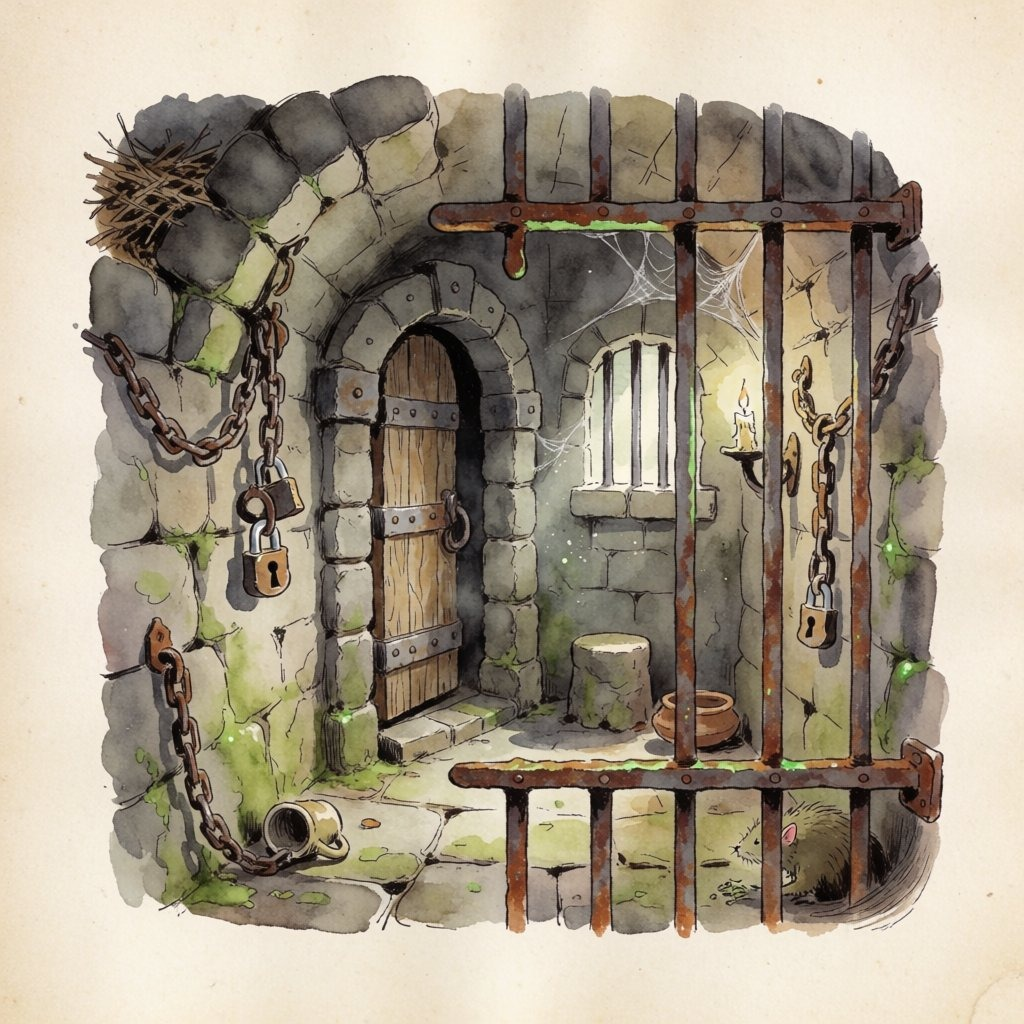
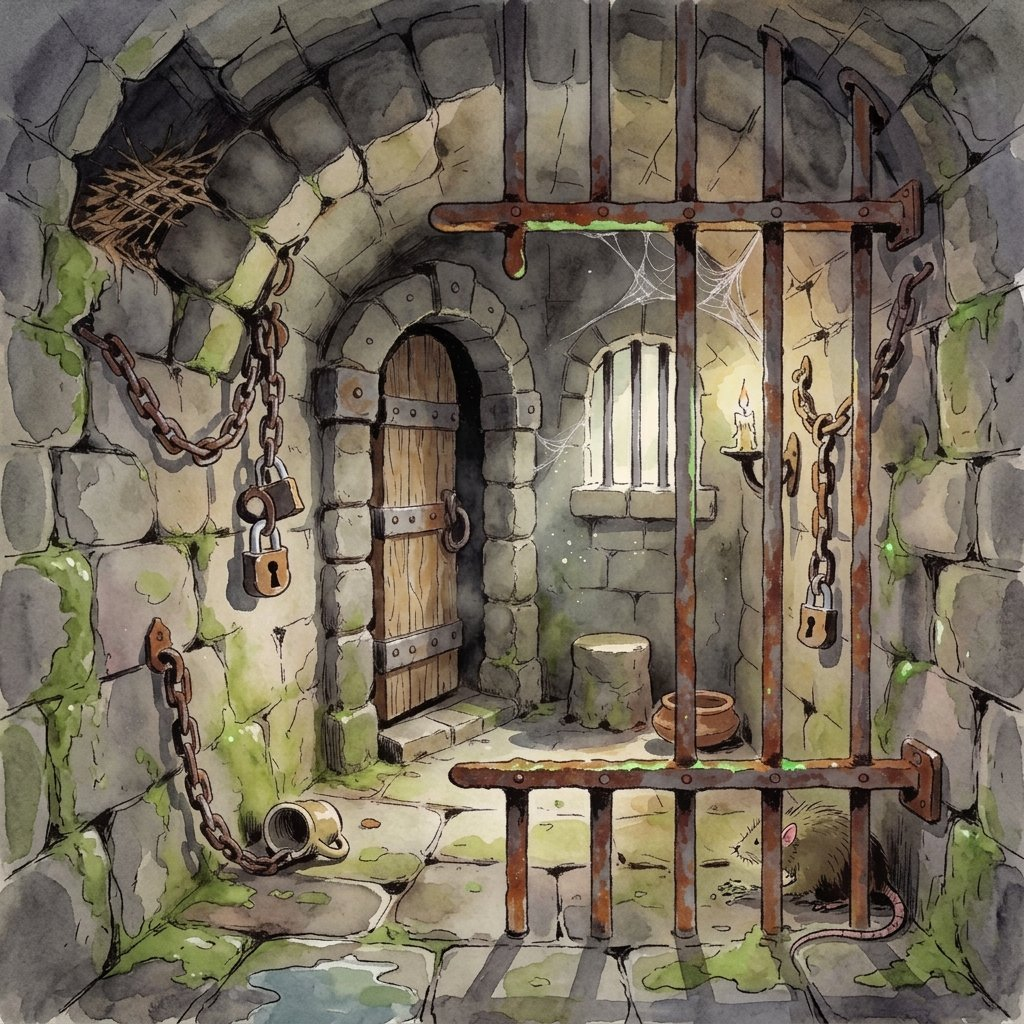
Add interactive casino and update game artwork

diff --git a/tests/test_casino.py b/tests/test_casino.py
@@ -1,0 +1,136 @@
+from contextlib import asynccontextmanager
+from types import SimpleNamespace
+from unittest.mock import AsyncMock
+
+import pytest
+import pytest_asyncio
+import sqlalchemy as sa
+from sqlalchemy.ext.asyncio import async_sessionmaker, create_async_engine
+from aiogram.fsm.context import FSMContext
+from aiogram.fsm.storage.memory import MemoryStorage, StorageKey
+
+from sib.database.models import AppleTransaction, AppleWallet, User
+from sib.handlers import casino
+from sib.services import casino_service
+from sib.services.apple_wallet import AppleWalletService
+
+
+@pytest_asyncio.fixture
+async def db(monkeypatch):
+    engine = create_async_engine("sqlite+aiosqlite:///:memory:")
+    col = AppleTransaction.__table__.c.id
+    old = col.type
+    col.type = sa.Integer()
+    try:
+        async with engine.begin() as conn:
+            await conn.run_sync(lambda c: User.metadata.create_all(c, tables=[User.__table__, AppleWallet.__table__, AppleTransaction.__table__]))
+    finally:
+        col.type = old
+    factory = async_sessionmaker(engine, expire_on_commit=False, autoflush=False)
+    async with factory.begin() as session:
+        session.add(User(id=1, first_name="test"))
+        await session.flush()
+        await AppleWalletService.earn(session, 1, 10000, reason="test")
+    @asynccontextmanager
+    async def get_session():
+        async with factory.begin() as session:
+            yield session
+    monkeypatch.setattr(casino, "get_session", get_session)
+    yield factory
+    await engine.dispose()
+
+
+@pytest.fixture
+def state():
+    return FSMContext(MemoryStorage(), StorageKey(bot_id=1, chat_id=1, user_id=1))
+
+
+@pytest.mark.asyncio
+@pytest.mark.parametrize("key,emoji", casino.GAMES.items())
+async def test_callback(key, emoji, state):
+    callback = SimpleNamespace(data=f"casino_game:{key}", message=SimpleNamespace(answer=AsyncMock()), answer=AsyncMock())
+    await casino.choose_game(callback, state)
+    assert await state.get_state() == casino.CasinoStates.waiting_for_bet.state
+    assert (await state.get_data())["emoji"] == emoji
+    callback.answer.assert_awaited_once()
+
+
+@pytest.mark.asyncio
+async def test_menu(state):
+    message = SimpleNamespace(answer_photo=AsyncMock())
+    await casino.casino_menu(message, state)
+    kwargs = message.answer_photo.await_args.kwargs
+    assert len(kwargs["reply_markup"].inline_keyboard[0]) == 4
+    assert casino.ASSET.exists()
+
+
+@pytest.mark.asyncio
+@pytest.mark.parametrize("emoji,value,won", [(e, v, w) for e in casino.GAMES.values() for v, w in ([(22, True), (1, False)] if e == "🎰" else [(6, True), (1, False)])])
+@pytest.mark.parametrize("bet_text", ["۱۰", "10"])
+async def test_round(db, state, emoji, value, won, bet_text):
+    await state.update_data(emoji=emoji)
+    await state.set_state(casino.CasinoStates.waiting_for_bet)
+    message = SimpleNamespace(from_user=SimpleNamespace(id=1), text=bet_text, answer=AsyncMock(), answer_dice=AsyncMock(return_value=SimpleNamespace(dice=SimpleNamespace(value=value))))
+    await casino.place_bet(message, state)
+    payout = (30 if emoji == "🎰" else 18) if won else 0
+    async with db() as session:
+        assert await AppleWalletService.get_balance(session, 1) == 10000 - 10 + payout
+    assert ("بردی" if won else "باختی") in message.answer.await_args.args[0]
+    assert await state.get_state() is None
+
+
+@pytest.mark.asyncio
+async def test_refusals_and_cooldown(db):
+    async with db.begin() as session:
+        for amount in (0, 9, 5001, -1, 1.5, True):
+            assert (await casino_service.validate_bet(session, 1, amount))["status"] == "invalid_bet"
+        assert (await casino_service.validate_bet(session, 1, 5000))["status"] == "started"
+    async with db.begin() as session:
+        assert (await casino_service.validate_bet(session, 1, 10))["status"] == "cooldown"
+        assert (await casino_service.validate_bet(session, 999, 10))["status"] == "not_found"
+    async with db.begin() as session:
+        session.add(User(id=2, first_name="poor"))
+        await session.flush()
+        assert (await casino_service.validate_bet(session, 2, 10))["status"] == "insufficient_funds"
+
+
+@pytest.mark.parametrize("value", [22, 43, 64])
+def test_slots_winning_values(value):
+    assert casino_service.calculate_result("🎰", value, 11)["payout"] == 33
+
+
+@pytest.mark.asyncio
+async def test_send_failure_refunds(db, state):
+    await state.update_data(emoji="🎲")
+    message = SimpleNamespace(from_user=SimpleNamespace(id=1), text="10", answer=AsyncMock(), answer_dice=AsyncMock(side_effect=RuntimeError("send failed")))
+    await casino.place_bet(message, state)
+    async with db() as session:
+        assert await AppleWalletService.get_balance(session, 1) == 10000
+
+
+@pytest.mark.asyncio
+@pytest.mark.parametrize("text", ["/casino", "قمارخانه", "قمارخونه", "قمار خانه", "قمار خونه", "قمار"])
+async def test_menu_filters(text):
+    from aiogram import Bot
+    from aiogram.types import Chat, Message, User as TelegramUser
+    from datetime import datetime
+    message = Message(message_id=1, date=datetime.now(), chat=Chat(id=1, type="private"), from_user=TelegramUser(id=1, is_bot=False, first_name="test"), text=text)
+    bot = Bot("123456:ABCdef_123456789012345678901234567")
+    try:
+        matches = [await h.check(message, bot=bot) for h in casino.router.message.handlers if h.callback is casino.casino_menu]
+        assert any(match for match, _ in matches)
+    finally:
+        await bot.session.close()
+
+
+@pytest.mark.asyncio
+@pytest.mark.parametrize("text", ["abc", "1.5", "-10", "۵۰۰۱", "9"])
+async def test_invalid_inputs_clear_state(db, state, text):
+    await state.update_data(emoji="🎲")
+    await state.set_state(casino.CasinoStates.waiting_for_bet)
+    message = SimpleNamespace(from_user=SimpleNamespace(id=1), text=text, answer=AsyncMock(), answer_dice=AsyncMock())
+    await casino.place_bet(message, state)
+    message.answer_dice.assert_not_awaited()
+    assert await state.get_state() is None
+    async with db() as session:
+        assert await AppleWalletService.get_balance(session, 1) == 10000

diff --git a/handlers/casino.py b/handlers/casino.py
@@ -1,0 +1,95 @@
+"""Interactive Telegram casino."""
+from pathlib import Path
+
+from aiogram import F, Router
+from aiogram.filters import Command
+from aiogram.fsm.context import FSMContext
+from aiogram.fsm.state import State, StatesGroup
+from aiogram.types import CallbackQuery, FSInputFile, InlineKeyboardButton, InlineKeyboardMarkup, Message
+
+from sib.core.logging import logger
+from sib.database.connection import get_session
+from sib.handlers.rocket import _normalize_rocket_digits
+from sib.services.casino_service import CasinoService
+from sib.services.apple_wallet import AppleWalletService
+from sib.services.lock_order import lock_user_row
+
+router = Router(name="casino")
+GAMES = {"dice": "🎲", "darts": "🎯", "bowling": "🎳", "slots": "🎰"}
+ASSET = Path(__file__).resolve().parents[1] / "assets" / "casino" / "casino_menu.jpg"
+_ACTIVE_USERS: set[int] = set()
+
+
+class CasinoStates(StatesGroup):
+    waiting_for_bet = State()
+
+
+@router.message(Command("casino"))
+@router.message(F.text.in_({"قمارخانه", "قمارخونه", "قمار خانه", "قمار خونه", "قمار"}))
+async def casino_menu(message: Message, state: FSMContext) -> None:
+    await state.clear()
+    keyboard = InlineKeyboardMarkup(inline_keyboard=[[
+        InlineKeyboardButton(text=label, callback_data=f"casino_game:{key}")
+        for key, label in [("dice", "🎲 تاس"), ("darts", "🎯 دارت"), ("bowling", "🎳 بولینگ"), ("slots", "🎰 اسلات")]
+    ]])
+    await message.answer_photo(FSInputFile(str(ASSET)), caption="🎰 به قمارخانه خوش آمدید! کدوم بازی رو انتخاب میکنی؟", reply_markup=keyboard)
+
+
+@router.callback_query(F.data.startswith("casino_game:"))
+async def choose_game(callback: CallbackQuery, state: FSMContext) -> None:
+    emoji = GAMES.get(callback.data.partition(":")[2])
+    if not emoji or not callback.message:
+        await callback.answer("بازی نامعتبر است.", show_alert=True)
+        return
+    await state.set_state(CasinoStates.waiting_for_bet)
+    await state.update_data(emoji=emoji)
+    await callback.answer()
+    await callback.message.answer("چقدر میخوای شرط بندی کنی؟ (حداقل 10، حداکثر 5000)\nمبلغ رو بنویس.")
+
+
+async def _credit(user_id: int, amount: int, game_id: str, reason: str) -> None:
+    async with get_session() as session:
+        await lock_user_row(session, user_id)
+        await AppleWalletService.earn(session, user_id, amount, reason=reason,
+                                      ref_type="casino_round", idempotency_key=f"{reason}:{game_id}")
+
+
+@router.message(CasinoStates.waiting_for_bet, F.text)
+async def place_bet(message: Message, state: FSMContext) -> None:
+    if not message.from_user:
+        await state.clear()
+        return
+    user_id = message.from_user.id
+    if user_id in _ACTIVE_USERS:
+        return
+    _ACTIVE_USERS.add(user_id)
+    try:
+        data = await state.get_data()
+        emoji = data.get("emoji")
+        text = _normalize_rocket_digits(message.text.strip())
+        if not text.isascii() or not text.isdecimal() or len(text) > 5 or emoji not in GAMES.values():
+            await message.answer("مبلغ شرط باید عددی بین 10 تا 5000 سیب باشد.")
+            return
+        bet = int(text)
+        async with get_session() as session:
+            result = await CasinoService.validate_bet(session, user_id, bet)
+        if result["status"] != "started":
+            await message.answer(result["error"])
+            return
+        game_id = result["game_id"]
+        try:
+            dice = await message.answer_dice(emoji=emoji)
+        except Exception:
+            logger.exception("Casino dice send failed (user=%s game=%s)", user_id, game_id)
+            await _credit(user_id, bet, game_id, "casino_refund")
+            await message.answer("ارسال بازی ناموفق بود؛ شرط به کیف پولت برگشت.")
+            return
+        outcome = CasinoService.calculate_result(emoji, dice.dice.value, bet)
+        if outcome["is_win"]:
+            await _credit(user_id, outcome["payout"], game_id, "casino_payout")
+            await message.answer(f"🏆 بردی! {outcome['value']} آوردی و {outcome['payout']} سیب گرفتی.")
+        else:
+            await message.answer(f"😭 باختی! {outcome['value']} آوردی.")
+    finally:
+        await state.clear()
+        _ACTIVE_USERS.discard(user_id)

diff --git a/services/casino_service.py b/services/casino_service.py
@@ -1,0 +1,65 @@
+"""Casino rules and transactional wager reservations.
+
+Cooldowns use the existing wallet ledger, avoiding a separate migration and
+remaining independent from Rocket's cooldown. The caller commits the session.
+"""
+import uuid
+
+from sqlalchemy import select
+from sqlalchemy.ext.asyncio import AsyncSession
+
+from sib.database.models import AppleTransaction
+from sib.services.apple_wallet import AppleWalletService, InsufficientFundsException
+from sib.services.lock_order import lock_user_row
+from sib.services.rocket_service import _cooldown_remaining, _database_now
+
+MIN_BET, MAX_BET, COOLDOWN = 10, 5000, 30
+BET_REASON = "casino_bet"
+
+
+async def validate_bet(session: AsyncSession, user_id: int, bet_amount: int) -> dict:
+    if isinstance(bet_amount, bool) or not isinstance(bet_amount, int) or not MIN_BET <= bet_amount <= MAX_BET:
+        return {"status": "invalid_bet", "error": "مبلغ شرط باید بین 10 تا 5000 سیب باشد."}
+    try:
+        await lock_user_row(session, user_id)
+    except ValueError:
+        return {"status": "not_found", "error": "ابتدا با /start ثبتنام کن."}
+    # A locking read is essential under MySQL's REPEATABLE READ isolation.
+    last = await session.scalar(
+        select(AppleTransaction).where(
+            AppleTransaction.user_id == user_id, AppleTransaction.reason == BET_REASON
+        ).order_by(AppleTransaction.id.desc()).limit(1).with_for_update()
+    )
+    if last:
+        remaining = _cooldown_remaining(last.created_at, await _database_now(session), COOLDOWN)
+        if remaining:
+            return {"status": "cooldown", "error": f"⏳ {remaining} ثانیه دیگر تلاش کن."}
+    balance = await AppleWalletService.get_balance(session, user_id, for_update=True)
+    if balance < bet_amount:
+        return {"status": "insufficient_funds", "error": "موجودی کافی نیست. 🍎"}
+    game_id = uuid.uuid4().hex
+    try:
+        debit = await AppleWalletService.debit_once(
+            session, user_id, bet_amount, reason=BET_REASON, ref_type="casino_round",
+            idempotency_key=f"casino_bet:{game_id}",
+        )
+    except InsufficientFundsException:
+        return {"status": "insufficient_funds", "error": "موجودی کافی نیست. 🍎"}
+    if not debit.applied:
+        return {"status": "error", "error": "بازی در دسترس نیست؛ دوباره تلاش کن."}
+    return {"status": "started", "game_id": game_id}
+
+
+def calculate_result(emoji: str, dice_value: int, bet_amount: int) -> dict:
+    if emoji not in {"🎲", "🎯", "🎳", "🎰"}:
+        raise ValueError("unknown casino game")
+    if not isinstance(dice_value, int) or not 1 <= dice_value <= (64 if emoji == "🎰" else 6):
+        raise ValueError("invalid dice value")
+    won = dice_value in ({22, 43, 64} if emoji == "🎰" else {4, 5, 6})
+    payout = (bet_amount * (3 if emoji == "🎰" else 18) // (1 if emoji == "🎰" else 10)) if won else 0
+    return {"is_win": won, "payout": payout, "value": dice_value}
+
+
+class CasinoService:
+    validate_bet = staticmethod(validate_bet)
+    calculate_result = staticmethod(calculate_result)

diff --git a/handlers/__init__.py b/handlers/__init__.py
@@ -49,6 +49,7 @@ from sib.handlers.transfers import router as transfers_router
 from sib.handlers.reminders import router as reminders_router
 from sib.handlers.theft import router as theft_router
 from sib.handlers.rocket import router as rocket_router
+from sib.handlers.casino import router as casino_router
 
 
 def register_all_handlers(dp: Dispatcher) -> None:
@@ -94,6 +95,7 @@ def register_all_handlers(dp: Dispatcher) -> None:
     dp.include_router(transfers_router)
     dp.include_router(theft_router)
     dp.include_router(rocket_router)
+    dp.include_router(casino_router)
     dp.include_router(inv2_controls_router)
     dp.include_router(inv2_dashboard_router)
     dp.include_router(inv2_admin_router)
